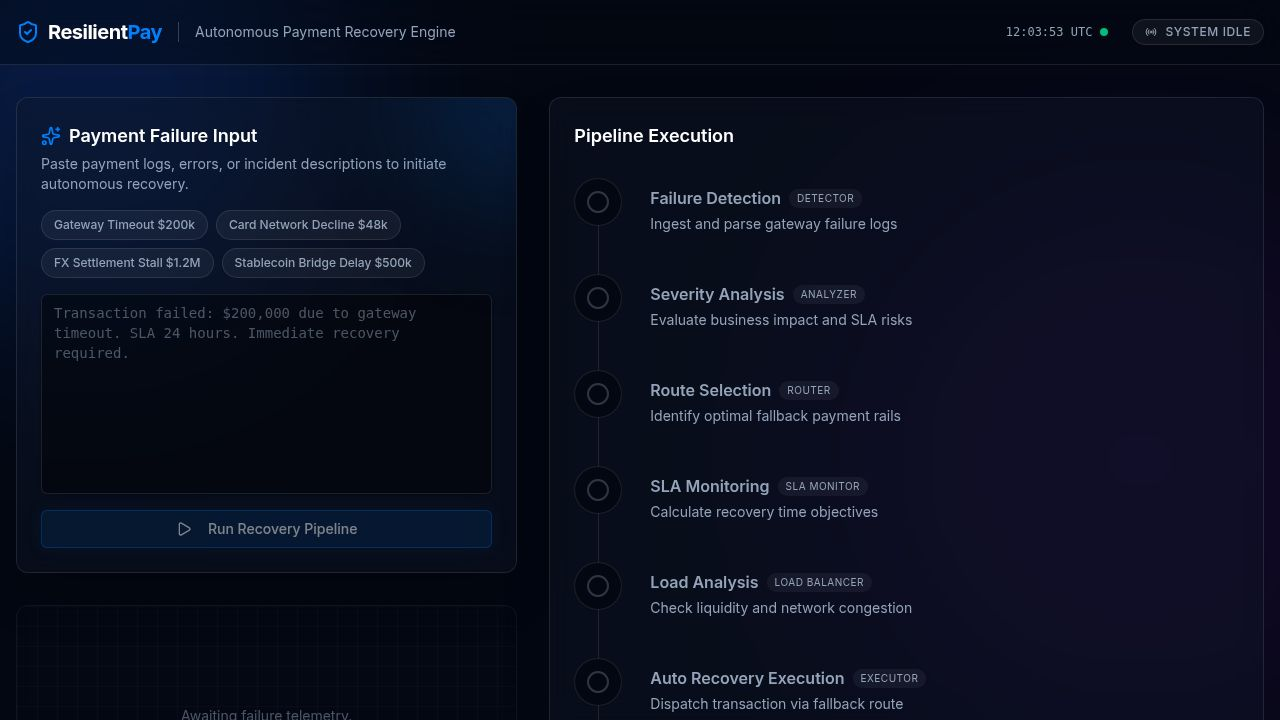
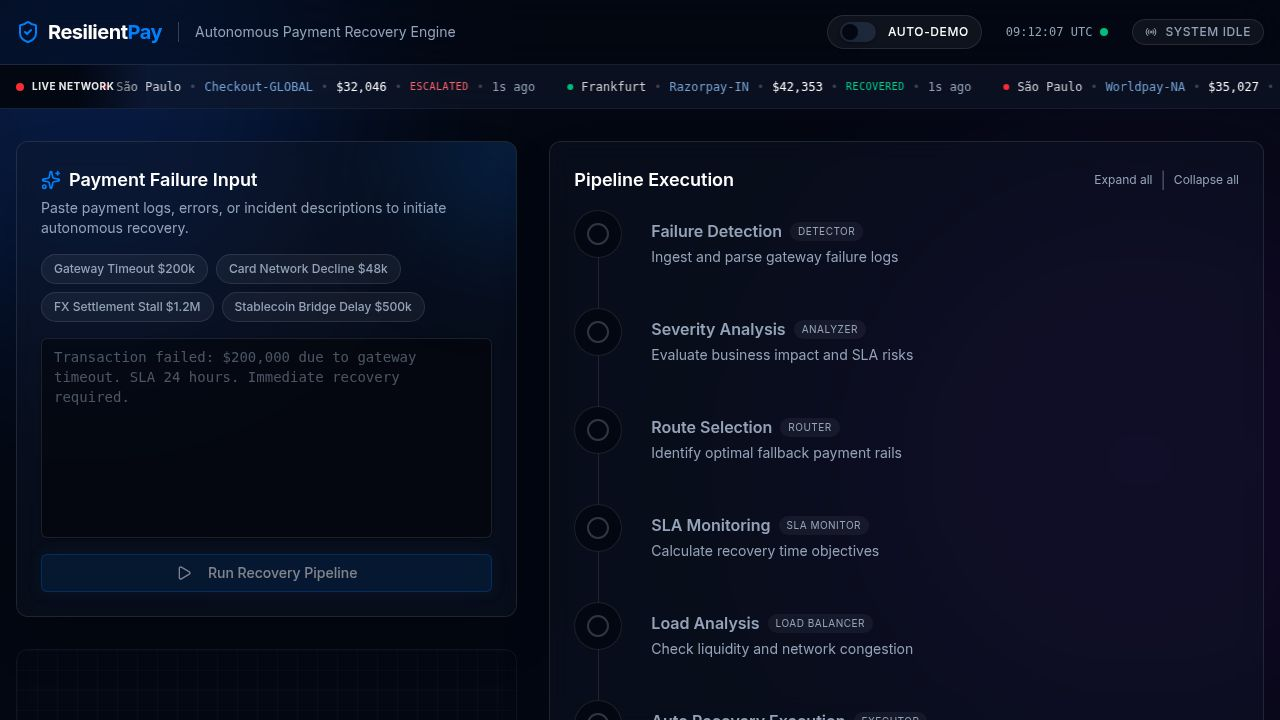
Summary

diff --git a/README.md b/README.md
@@ -1,0 +1,149 @@
+# ResilientPay
+
+**Autonomous Payment Recovery System — AI-powered fintech demo**
+
+ResilientPay is a full-stack demo application that simulates an AI agent autonomously recovering failed payment transactions. It classifies failure types, selects optimal fallback routes, generates step-by-step reasoning traces using Google Gemini, and produces a full audit log — all within a 7-step animated pipeline.
+
+Built as a hackathon-quality project to demonstrate real-world AI agent patterns in a fintech context.
+
+---
+
+## Live Demo
+
+Hosted on Replit — paste any payment failure log and watch the agent recover it in real time.
+
+---
+
+## Features
+
+- **Real Gemini AI integration** — each pipeline run sends the failure input to Gemini 2.5 Flash, which generates per-step reasoning, severity classification, and an agent verdict
+- **7-step autonomous pipeline** — Failure Detection, Severity Analysis, Route Selection, SLA Monitoring, Load Analysis, Auto Recovery Execution, Audit Logging
+- **Live network ticker** — scrolling feed of simulated global payment recoveries
+- **Auto-Demo Mode** — cycles through unique scenarios every 15–20 seconds automatically
+- **Recovery Analytics** — bar and area charts showing recovery trends, success rates, and latency
+- **Session History** — last 6 runs stored in-session with one-click replay
+- **AI fallback** — if the Gemini API is unavailable, the system falls back to cached reasoning without breaking the demo
+- **Custom input** — paste any free-form payment failure text; the agent parses the amount, error type, and SLA constraints automatically
+- **Responsive design** — works on desktop and mobile
+
+---
+
+## Tech Stack
+
+| Layer | Technology |
+|---|---|
+| Frontend | React 18, TypeScript, Vite |
+| Styling | Tailwind CSS, Framer Motion |
+| Charts | Recharts |
+| Backend | Node.js, Express |
+| AI | Google Gemini API (gemini-2.5-flash) |
+| Monorepo | pnpm workspaces |
+
+---
+
+## Project Structure
+
+```
+artifacts/
+  resilientpay/        # React + Vite frontend
+    src/
+      components/      # Pipeline, InputPanel, OutputDashboard, etc.
+      hooks/           # usePipeline, useAutoDemo
+      lib/             # mockScenarios, scenario data
+      pages/           # Home page
+  api-server/          # Express backend
+    src/
+      routes/
+        agent.ts       # POST /api/agent/analyze — Gemini integration
+lib/
+  integrations-gemini-ai/  # Gemini AI client library
+```
+
+---
+
+## Getting Started
+
+### Prerequisites
+
+- Node.js 18+
+- pnpm 8+
+- A Gemini API key (or use Replit's built-in AI integrations)
+
+### Install
+
+```bash
+pnpm install
+```
+
+### Environment Variables
+
+```env
+AI_INTEGRATIONS_GEMINI_BASE_URL=<your-gemini-base-url>
+AI_INTEGRATIONS_GEMINI_API_KEY=<your-gemini-api-key>
+SESSION_SECRET=<any-random-string>
+```
+
+### Run
+
+```bash
+# Start the API server (port 8080)
+pnpm --filter @workspace/api-server run dev
+
+# Start the frontend (port assigned by Vite)
+pnpm --filter @workspace/resilientpay run dev
+```
+
+---
+
+## How the AI Agent Works
+
+When you click **Run Recovery Pipeline**:
+
+1. The 7-step animation begins immediately (visual feedback)
+2. Simultaneously, the failure input is sent to the Express backend at `POST /api/agent/analyze`
+3. The backend calls Gemini 2.5 Flash with a structured prompt including the failure text, transaction amount, error type, and each pipeline step ID
+4. Gemini returns a JSON object containing:
+   - `reasoning` — 3 lines of explanation per step (detect, analyze, route, sla, load, execute, audit)
+   - `summary` — one-sentence agent verdict
+   - `severity` — Low / Medium / High / Critical
+5. The AI reasoning is merged into the result and displayed under each pipeline step
+6. A **"Gemini reasoning"** badge and **"Agent verdict"** banner confirm live AI output
+
+If the API call fails or times out, the pipeline falls back to pre-written reasoning and shows a **"Cached reasoning"** badge.
+
+---
+
+## Example Input
+
+Paste this into the input panel to test a custom failure:
+
+```
+Error 504 - Gateway Timeout
+Merchant ID: 8829
+Transaction ID: TXN78451239
+Amount: $200,000
+Currency: USD
+Payment Method: Bank API
+Status: FAILED
+Timestamp: 2026-05-02T10:15:23Z
+Reason: Primary bank API not responding
+```
+
+The agent will parse the amount, classify the 504 error, select a fallback route, and generate Gemini-powered reasoning for every step.
+
+---
+
+## Resume Context
+
+This project demonstrates:
+
+- **Gemini API** — real LLM calls with JSON-mode responses and structured prompt engineering
+- **AI agent UX patterns** — streaming-style step-by-step reasoning, confidence badges, live/fallback status
+- **Full-stack TypeScript** — shared types across React frontend and Express backend via pnpm workspaces
+- **Production patterns** — graceful degradation, abort controllers, idempotency awareness, audit logging
+
+---
+
+## License
+
+MIT